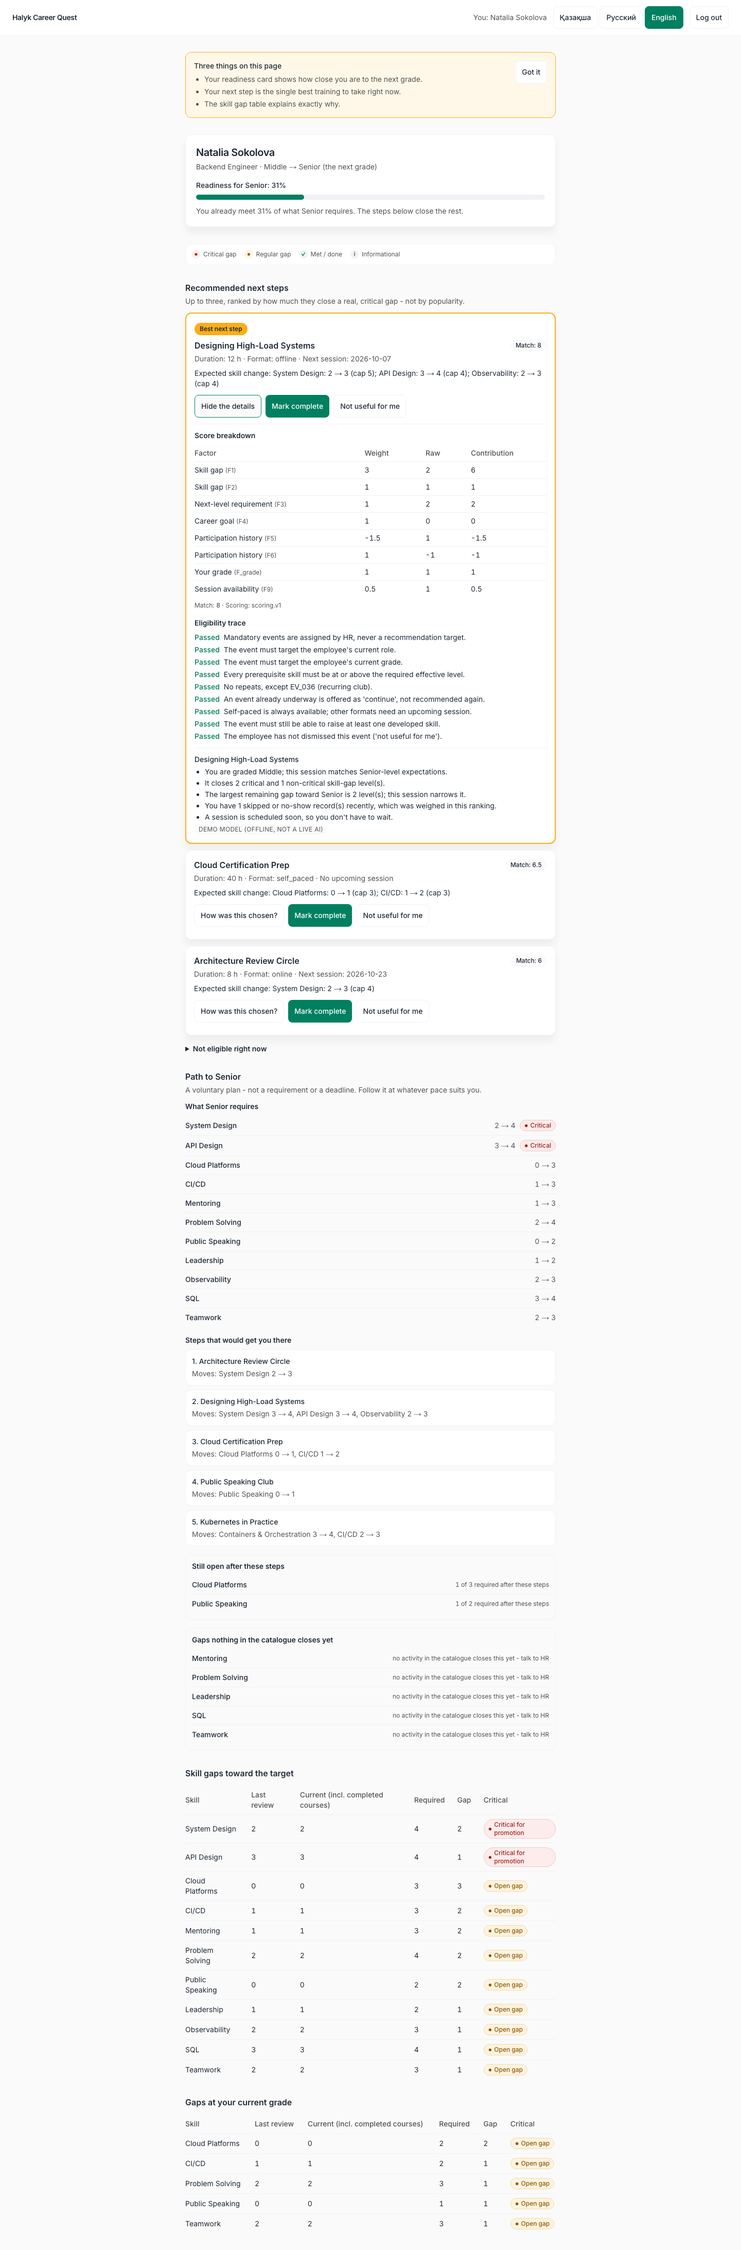
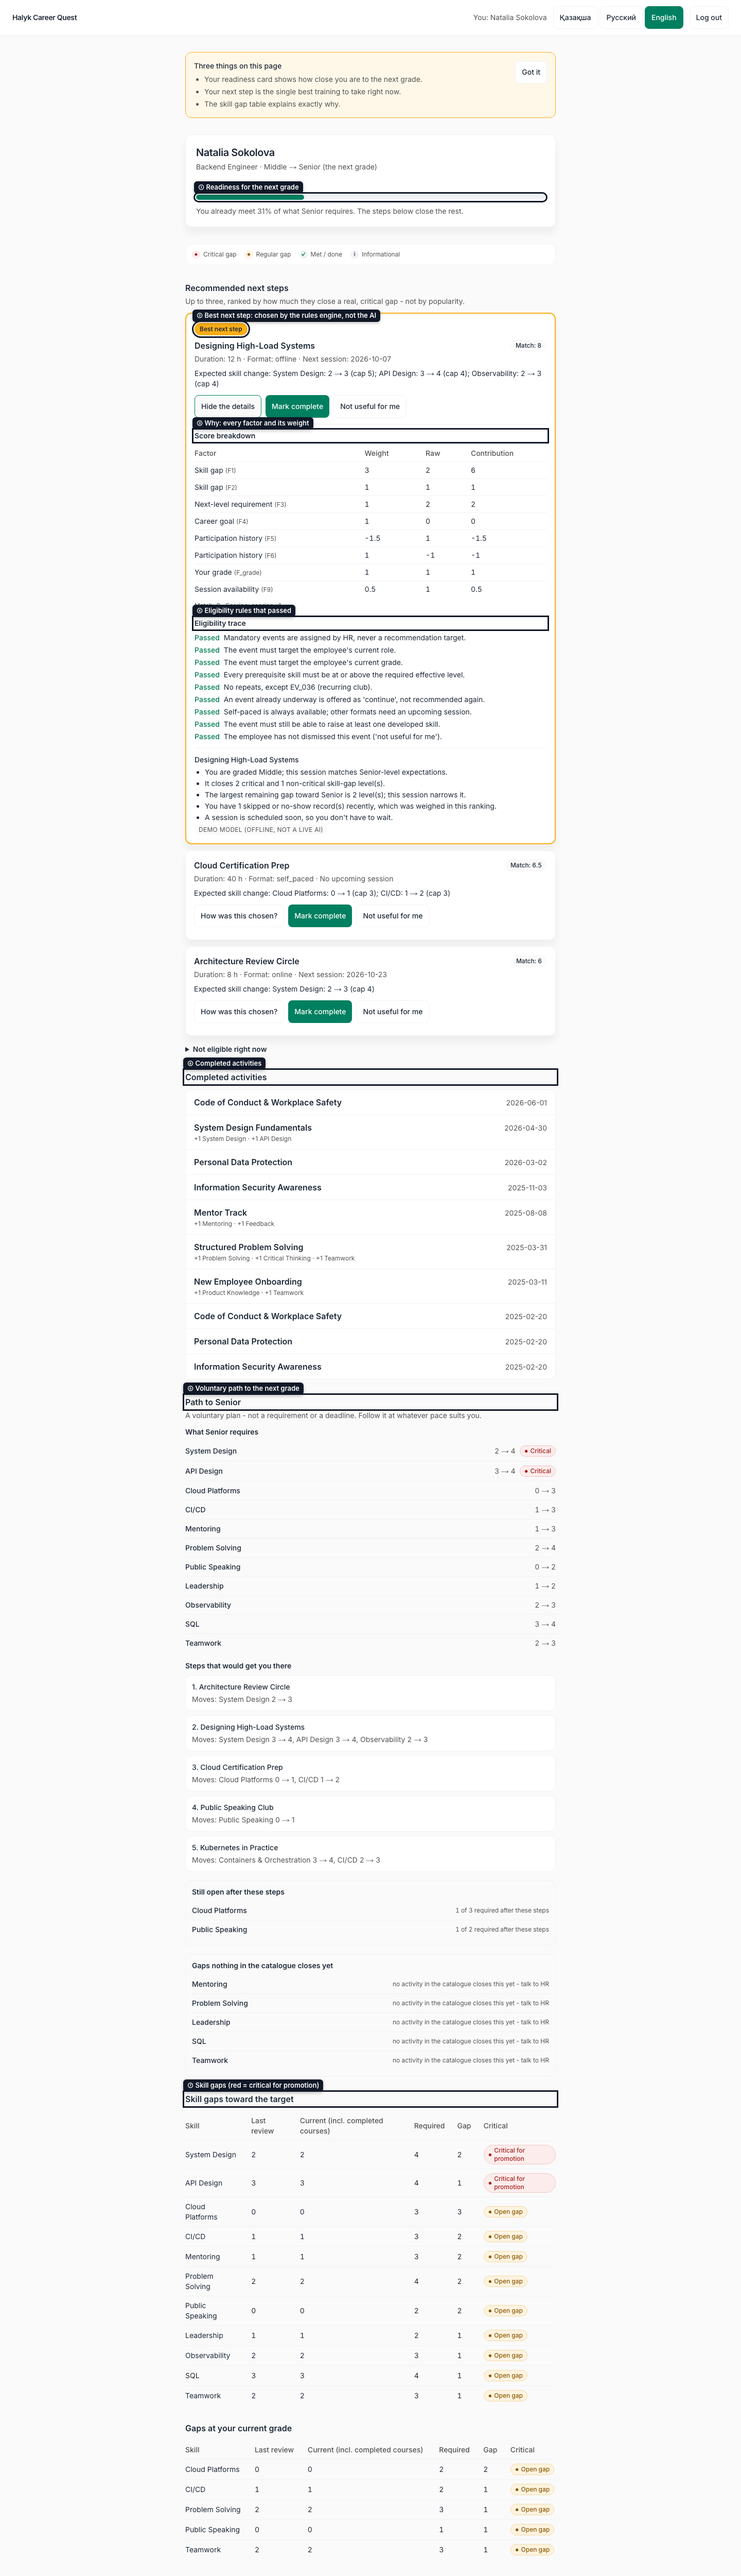
Labelled screenshots (numbered callouts) incl. AI suggestion card; embed in README

diff --git a/README.md b/README.md
@@ -489,9 +489,13 @@ reusable client component (`components/DataTable.tsx`): a search box
 separate numeric columns, and no-step reasons are short colour-coded labels
 with the full explanation on hover.
 
+Screenshots carry numbered callout labels that point at the main elements.
+
 ![Demo login picker: choose an employee id or HR, no password](docs/assets/login.png)
 
 ![Employee E0137 profile: readiness bar, best-next-step card, trajectory, grounded rationale, and grade-transition path](docs/assets/employee-e0137.png)
+
+![Employee with no catalogue step (E0065): AI suggestion card, labelled as AI-generated, code-written title, caution line, not from the catalogue](docs/assets/employee-ai-suggestions.png)
 
 ![HR dashboard: KPI tiles, lagging skills, no-step list with reason codes, participation by event](docs/assets/hr-dashboard.png)
 
